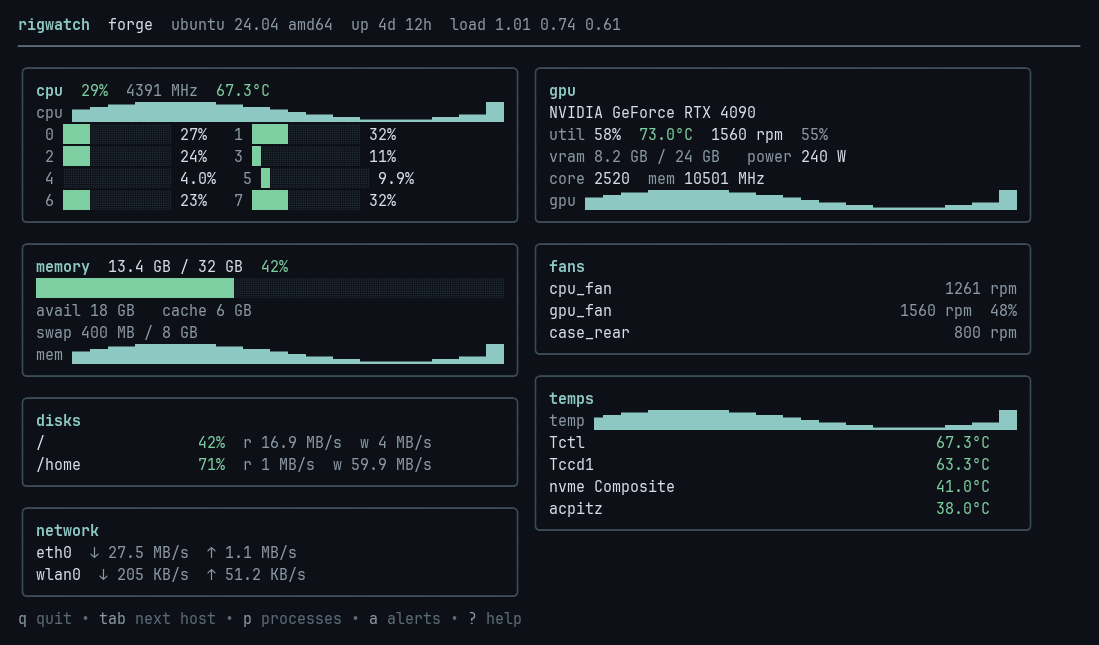
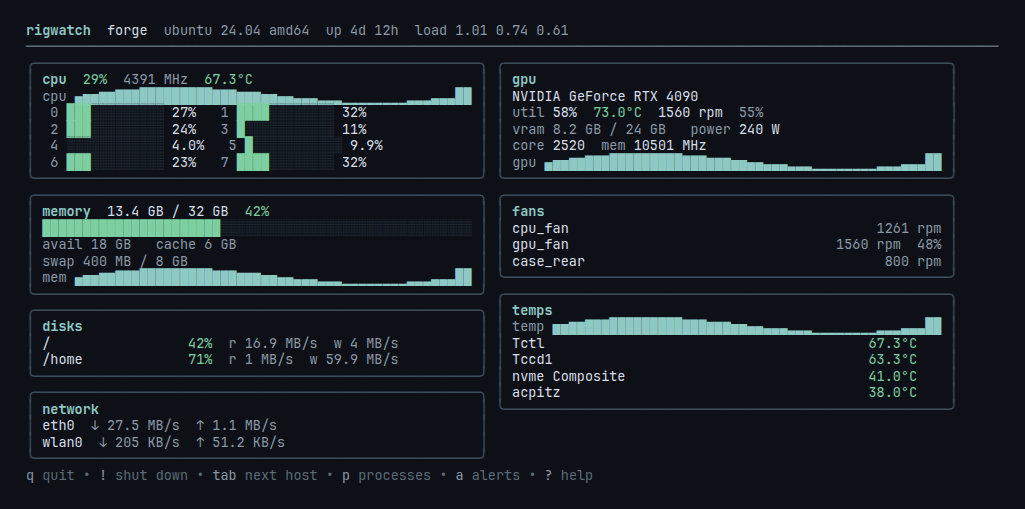
Document the host kill switch for v0.5.0.
Note that confirm is required, demo does not send it, and a dropped link shows not connected. Add the shutdown confirm frame and refresh the dashboard sample.

Changed region(s): [[0.0, 0.0295, 0.9678, 0.9725]]

diff --git a/README.md b/README.md
@@ -26,19 +26,23 @@ Terminal monitor for CPU, GPU, memory, disks, network, temperatures, fans, and t
 
 *Alert banner from `rigwatch --demo --temp-amber 61`. Crossed cards take the amber border, and the footer counts the open alerts.*
 
+![Shutdown confirm for forge, asking y or n](docs/shutdown.png)
+
+*`!` asks before it powers the host off. `y` shuts it down. `n` or `esc` cancels.*
+
 ## Install
 
 ```bash
 go install github.com/tushar1210/rigwatch@latest
 ```
 
-Prebuilt binaries for macOS, Linux, and Windows (`amd64` and `arm64`) are on the [v0.4.0 release](https://github.com/tushar1210/rigwatch/releases/tag/v0.4.0). SHA256 checksums are in [`checksums.txt`](https://github.com/tushar1210/rigwatch/releases/download/v0.4.0/checksums.txt).
+Prebuilt binaries for macOS, Linux, and Windows (`amd64` and `arm64`) are on the [v0.5.0 release](https://github.com/tushar1210/rigwatch/releases/tag/v0.5.0). SHA256 checksums are in [`checksums.txt`](https://github.com/tushar1210/rigwatch/releases/download/v0.5.0/checksums.txt).
 
 | | amd64 | arm64 |
 | --- | --- | --- |
-| Linux | [tar.gz](https://github.com/tushar1210/rigwatch/releases/download/v0.4.0/rigwatch_0.4.0_linux_amd64.tar.gz) | [tar.gz](https://github.com/tushar1210/rigwatch/releases/download/v0.4.0/rigwatch_0.4.0_linux_arm64.tar.gz) |
-| macOS | [tar.gz](https://github.com/tushar1210/rigwatch/releases/download/v0.4.0/rigwatch_0.4.0_darwin_amd64.tar.gz) | [tar.gz](https://github.com/tushar1210/rigwatch/releases/download/v0.4.0/rigwatch_0.4.0_darwin_arm64.tar.gz) |
-| Windows | [zip](https://github.com/tushar1210/rigwatch/releases/download/v0.4.0/rigwatch_0.4.0_windows_amd64.zip) | [zip](https://github.com/tushar1210/rigwatch/releases/download/v0.4.0/rigwatch_0.4.0_windows_arm64.zip) |
+| Linux | [tar.gz](https://github.com/tushar1210/rigwatch/releases/download/v0.5.0/rigwatch_0.5.0_linux_amd64.tar.gz) | [tar.gz](https://github.com/tushar1210/rigwatch/releases/download/v0.5.0/rigwatch_0.5.0_linux_arm64.tar.gz) |
+| macOS | [tar.gz](https://github.com/tushar1210/rigwatch/releases/download/v0.5.0/rigwatch_0.5.0_darwin_amd64.tar.gz) | [tar.gz](https://github.com/tushar1210/rigwatch/releases/download/v0.5.0/rigwatch_0.5.0_darwin_arm64.tar.gz) |
+| Windows | [zip](https://github.com/tushar1210/rigwatch/releases/download/v0.5.0/rigwatch_0.5.0_windows_amd64.zip) | [zip](https://github.com/tushar1210/rigwatch/releases/download/v0.5.0/rigwatch_0.5.0_windows_arm64.zip) |
 
 ## Usage
 
@@ -91,7 +95,7 @@ The top three rows for the current sort are marked 1–3.
 
 `x` asks before it signals, and only on the machine you are sitting at. `--demo` and `rigwatch connect` do not send a signal. macOS and Linux need you to own the process (or root); otherwise the row says `access denied` and the process keeps running. Windows uses `taskkill`, and `9` adds `/F`.
 
-`!` is the host kill switch. It asks first: `y` powers that machine off, `n` or `esc` cancels. It works on this computer and on a connected SSH or WebSocket host. `--demo` does not send it. The agent runs `shutdown` (on Windows, `shutdown /s /t 0 /f`), so that process needs permission to power the machine off.
+`!` then `y` shuts down the watched host. Confirm is required: `n` or `esc` cancels, and `--demo` does not send it. This machine runs `shutdown -h now` (Windows: `shutdown /s /t 0 /f`). A connected host is shut down by its agent. A refused shutdown shows `access denied`. A dropped link shows `not connected`.
 
 CPU, memory, GPU, and temperature panels draw a labeled sparkline.
 
